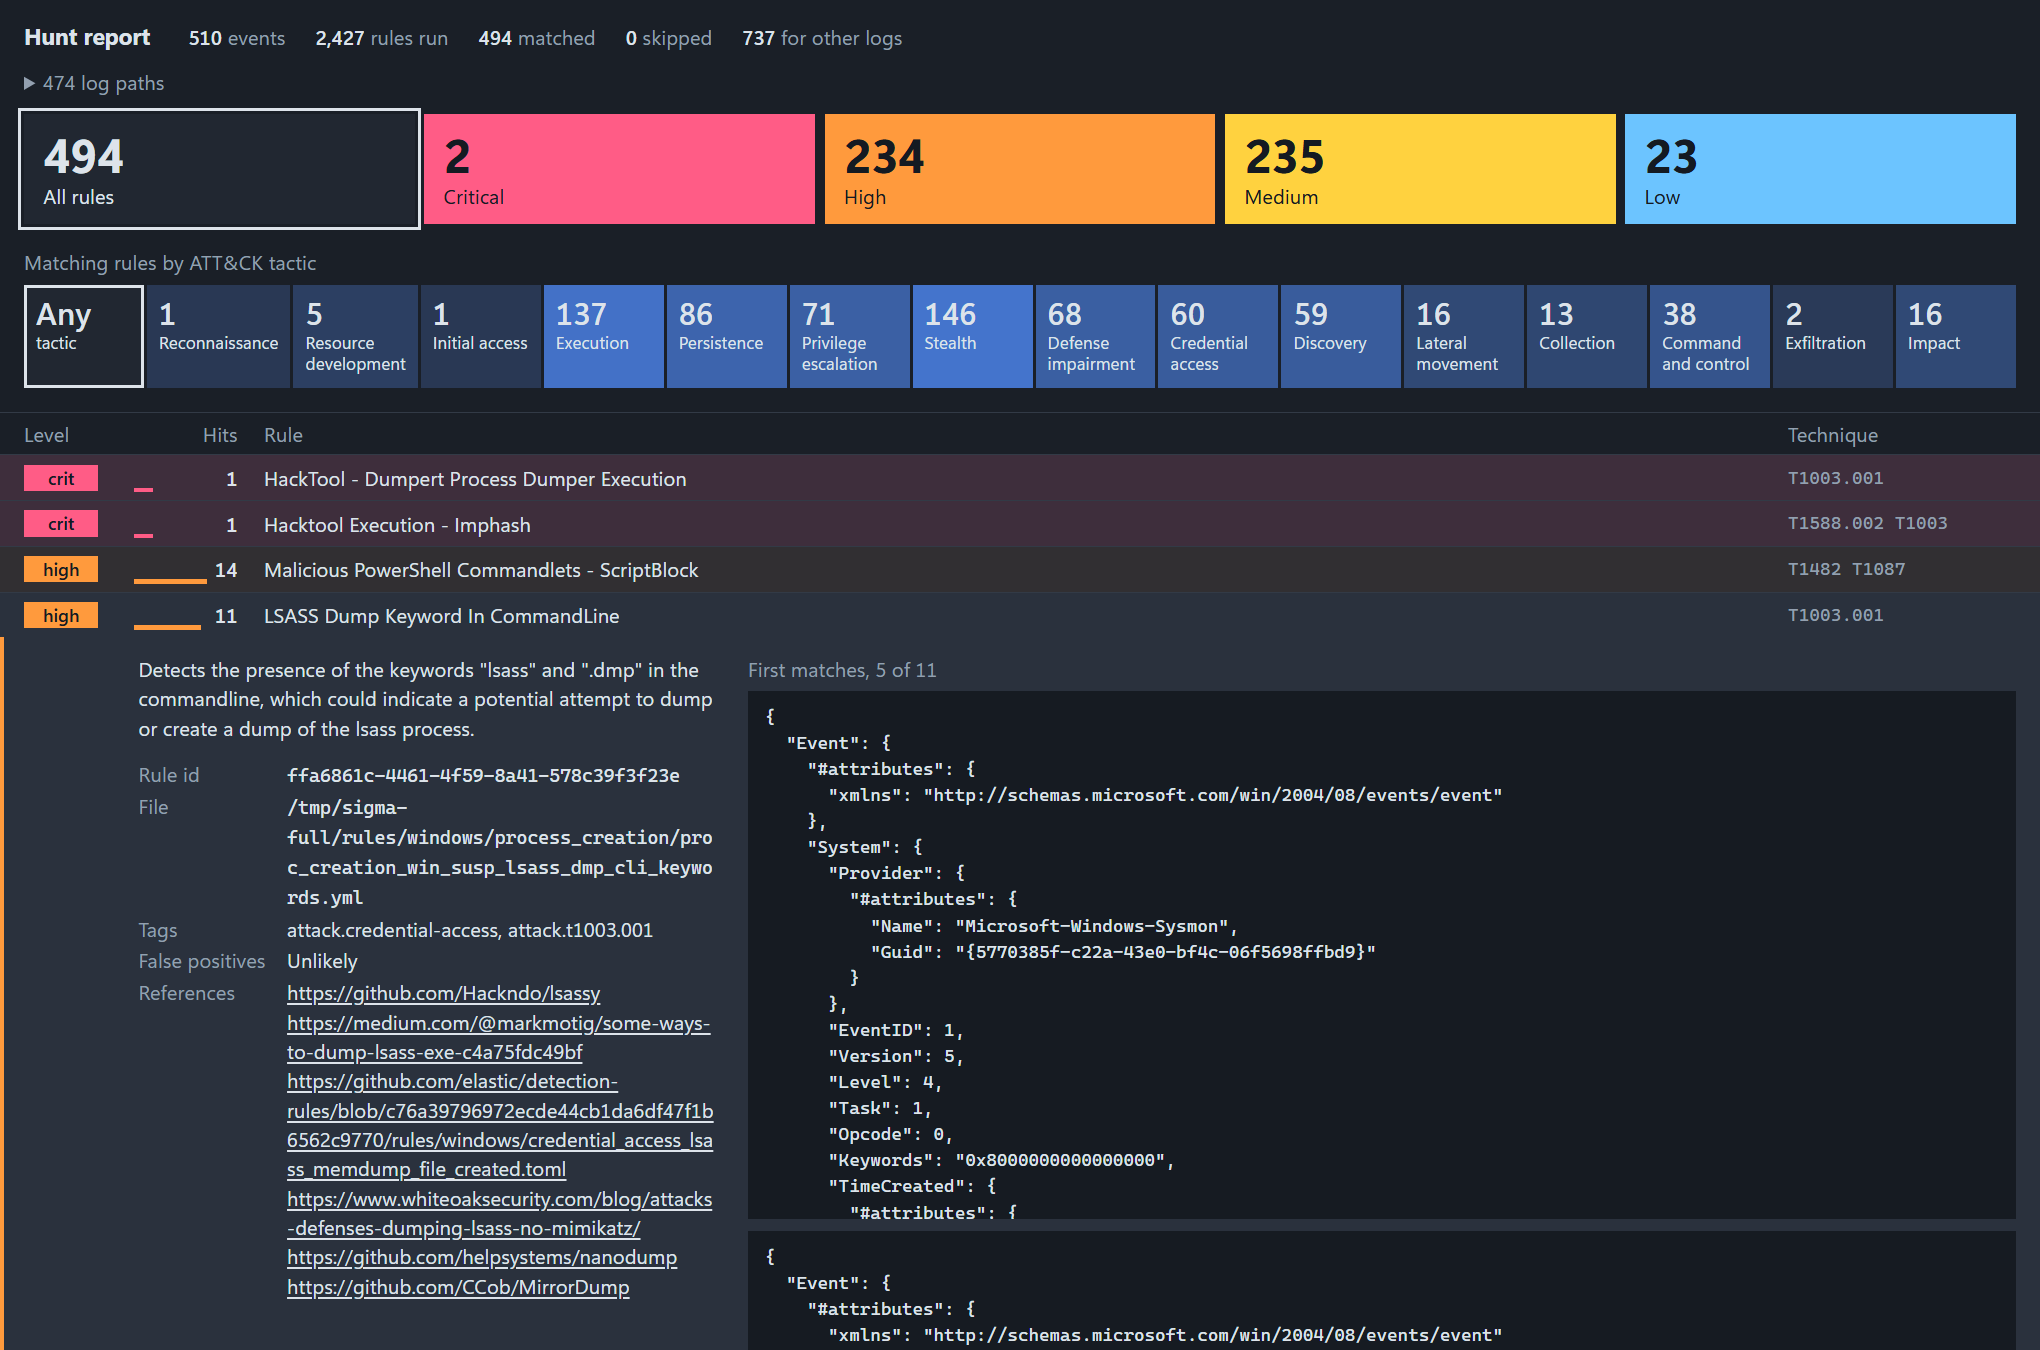
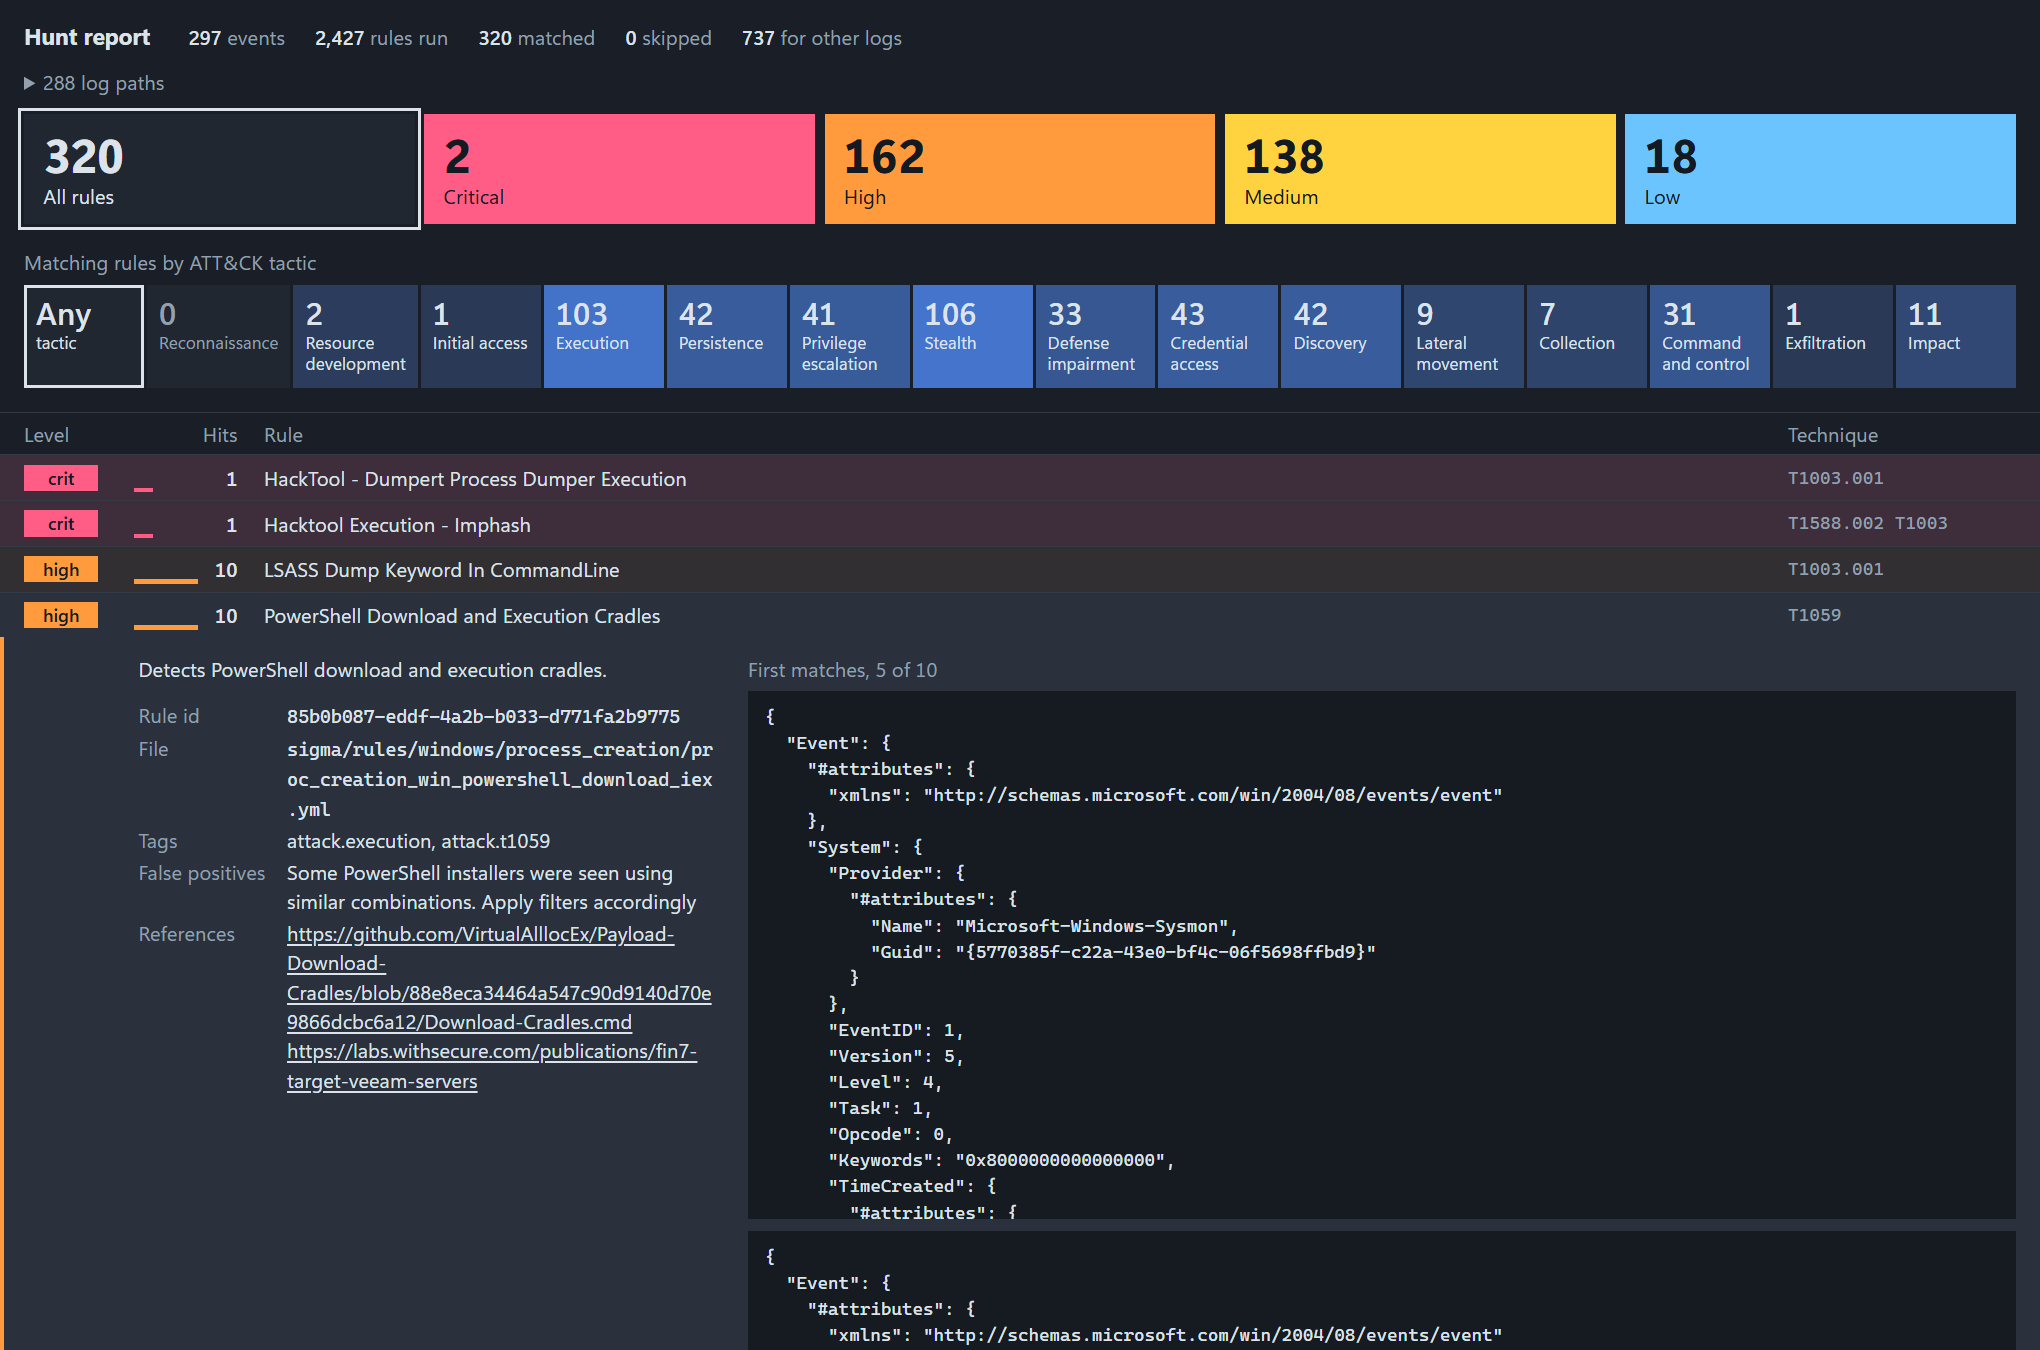
docs: use general values in examples and the report image

diff --git a/docs/database.md b/docs/database.md
@@ -471,7 +471,7 @@ high             1  Office application starting a shell  (examples/rules/office_
 medium           1  Successful RDP logon from a public address  (examples/rules/rdp_from_outside.yml)
 4 of 4 rules matched 12 events (0 rules skipped)
 $ grep -o 'postgresql://[^<]*' hits.html
-postgresql://localhost:15432/logs
+postgresql://db.example/logs
 ```
 
 What an example shows depends on the table:
@@ -490,15 +490,14 @@ replaced by `***`. It can name the host and the user:
 
 ```console
 $ sigma2sql hunt failed.yml -t logs
-sigma2sql: connection failed: connection to server at "127.0.0.1", port 15432 failed: FATAL:  password authentication failed for user "sigma_reader"
+sigma2sql: connection failed: connection to server at "db.example" (192.0.2.10), port 5432 failed: FATAL:  password authentication failed for user "sigma_reader"
 ```
 
-An error from ClickHouse is passed on as the server wrote it, cut at 400 bytes, so it can look
-like raw text or JSON:
+An error from ClickHouse is passed on with the server's own message:
 
 ```console
 $ sigma2sql hunt failed.yml -t missing_table --json-column event; echo $?
-sigma2sql: {"exception": "Code: 60. DB::Exception: Unknown table expression identifier 'missing_table' in scope SELECT 1 AS x FROM missing_table. (UNKNOWN_TABLE) (version 25.8.33.6 (official build))"}
+sigma2sql: Code: 60. DB::Exception: Unknown table expression identifier 'missing_table' in scope SELECT 1 AS x FROM missing_table. (UNKNOWN_TABLE) (version 25.8.33.6 (official build))
 2
 ```
 
